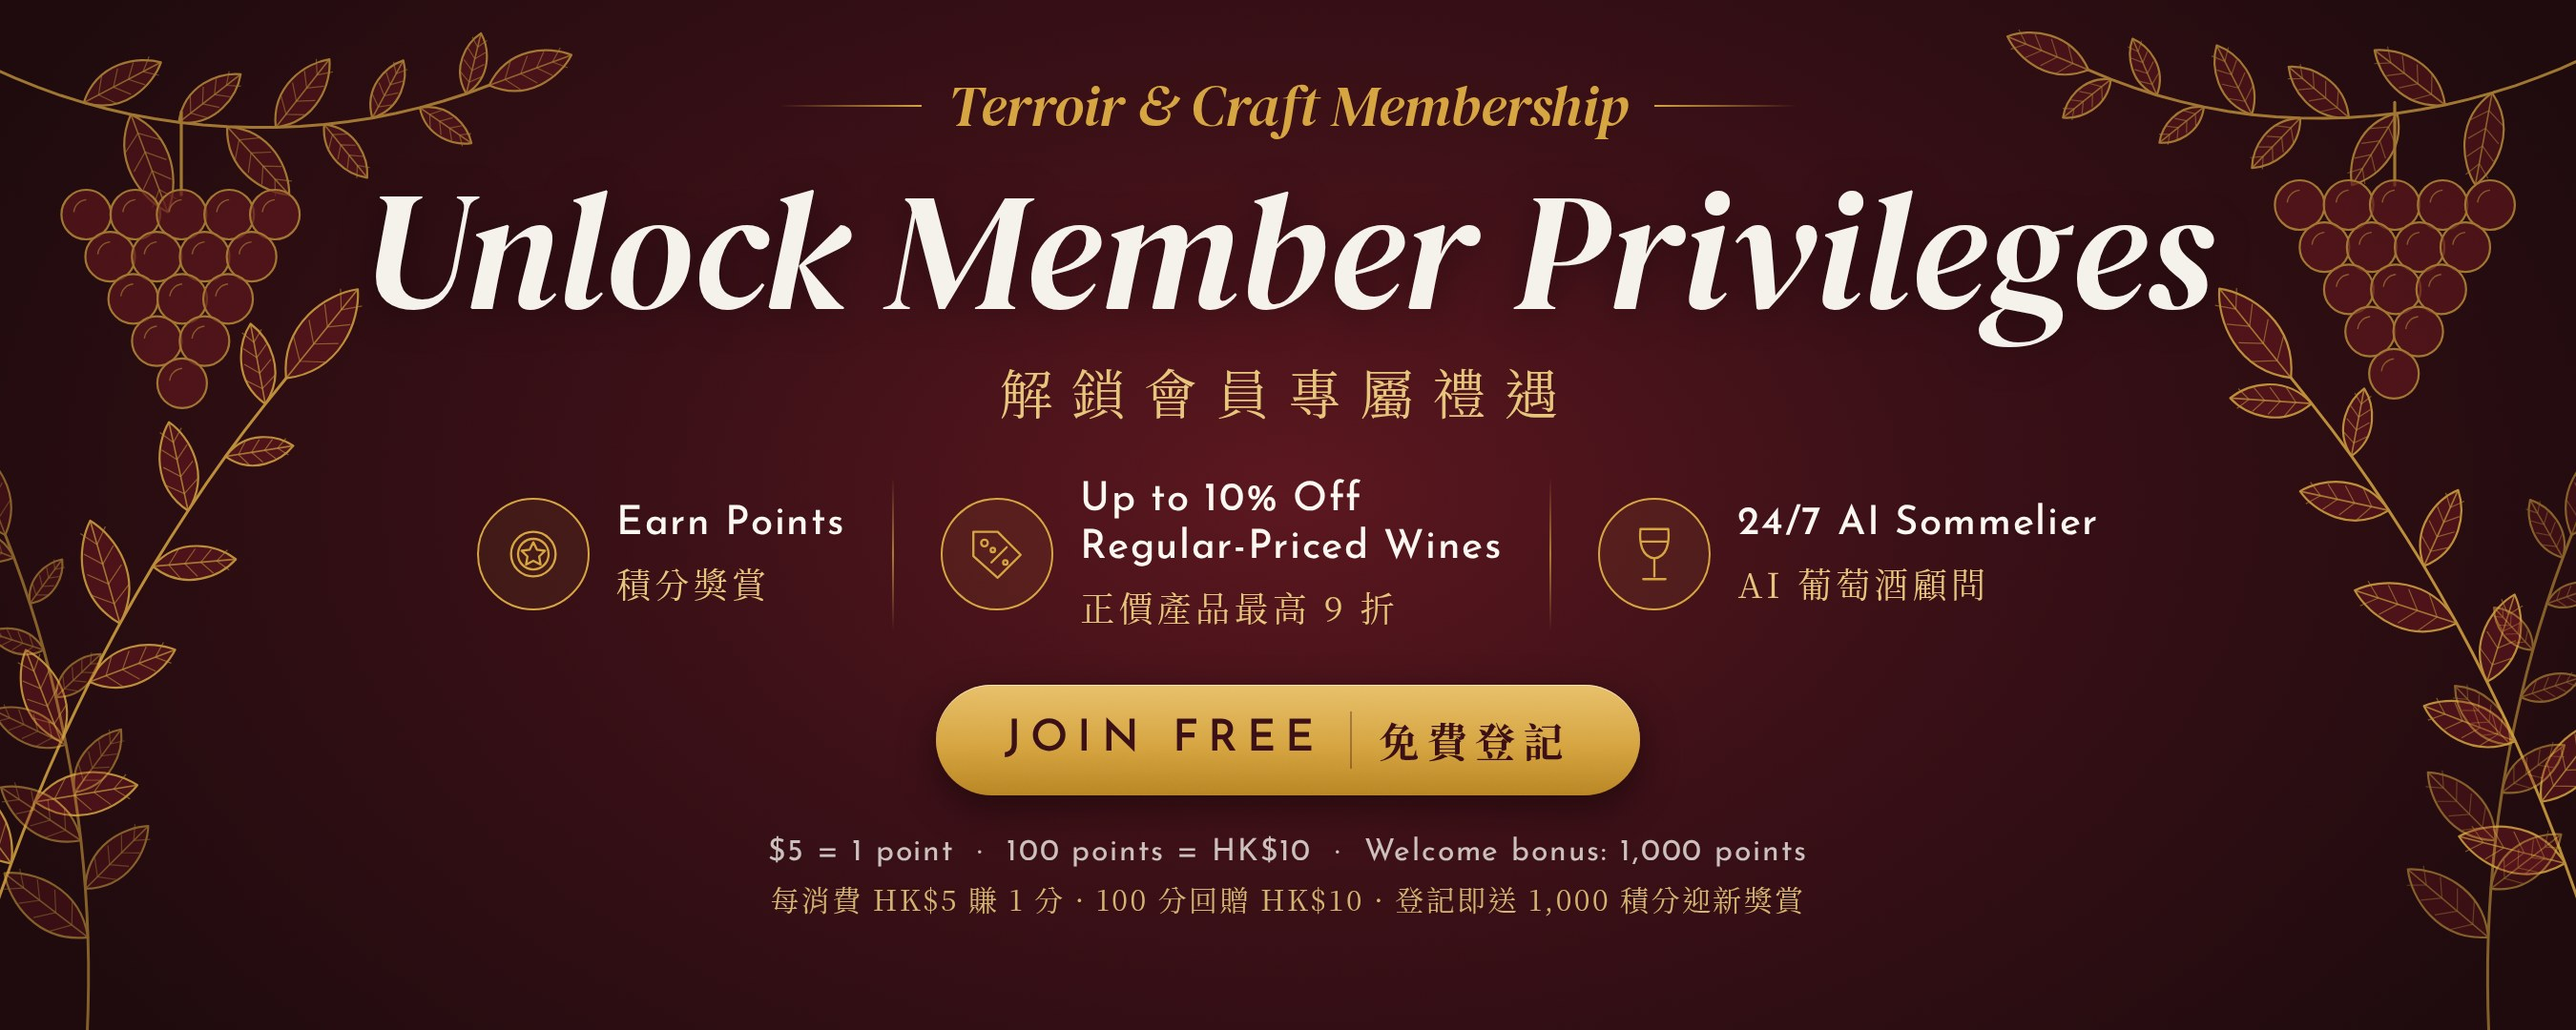
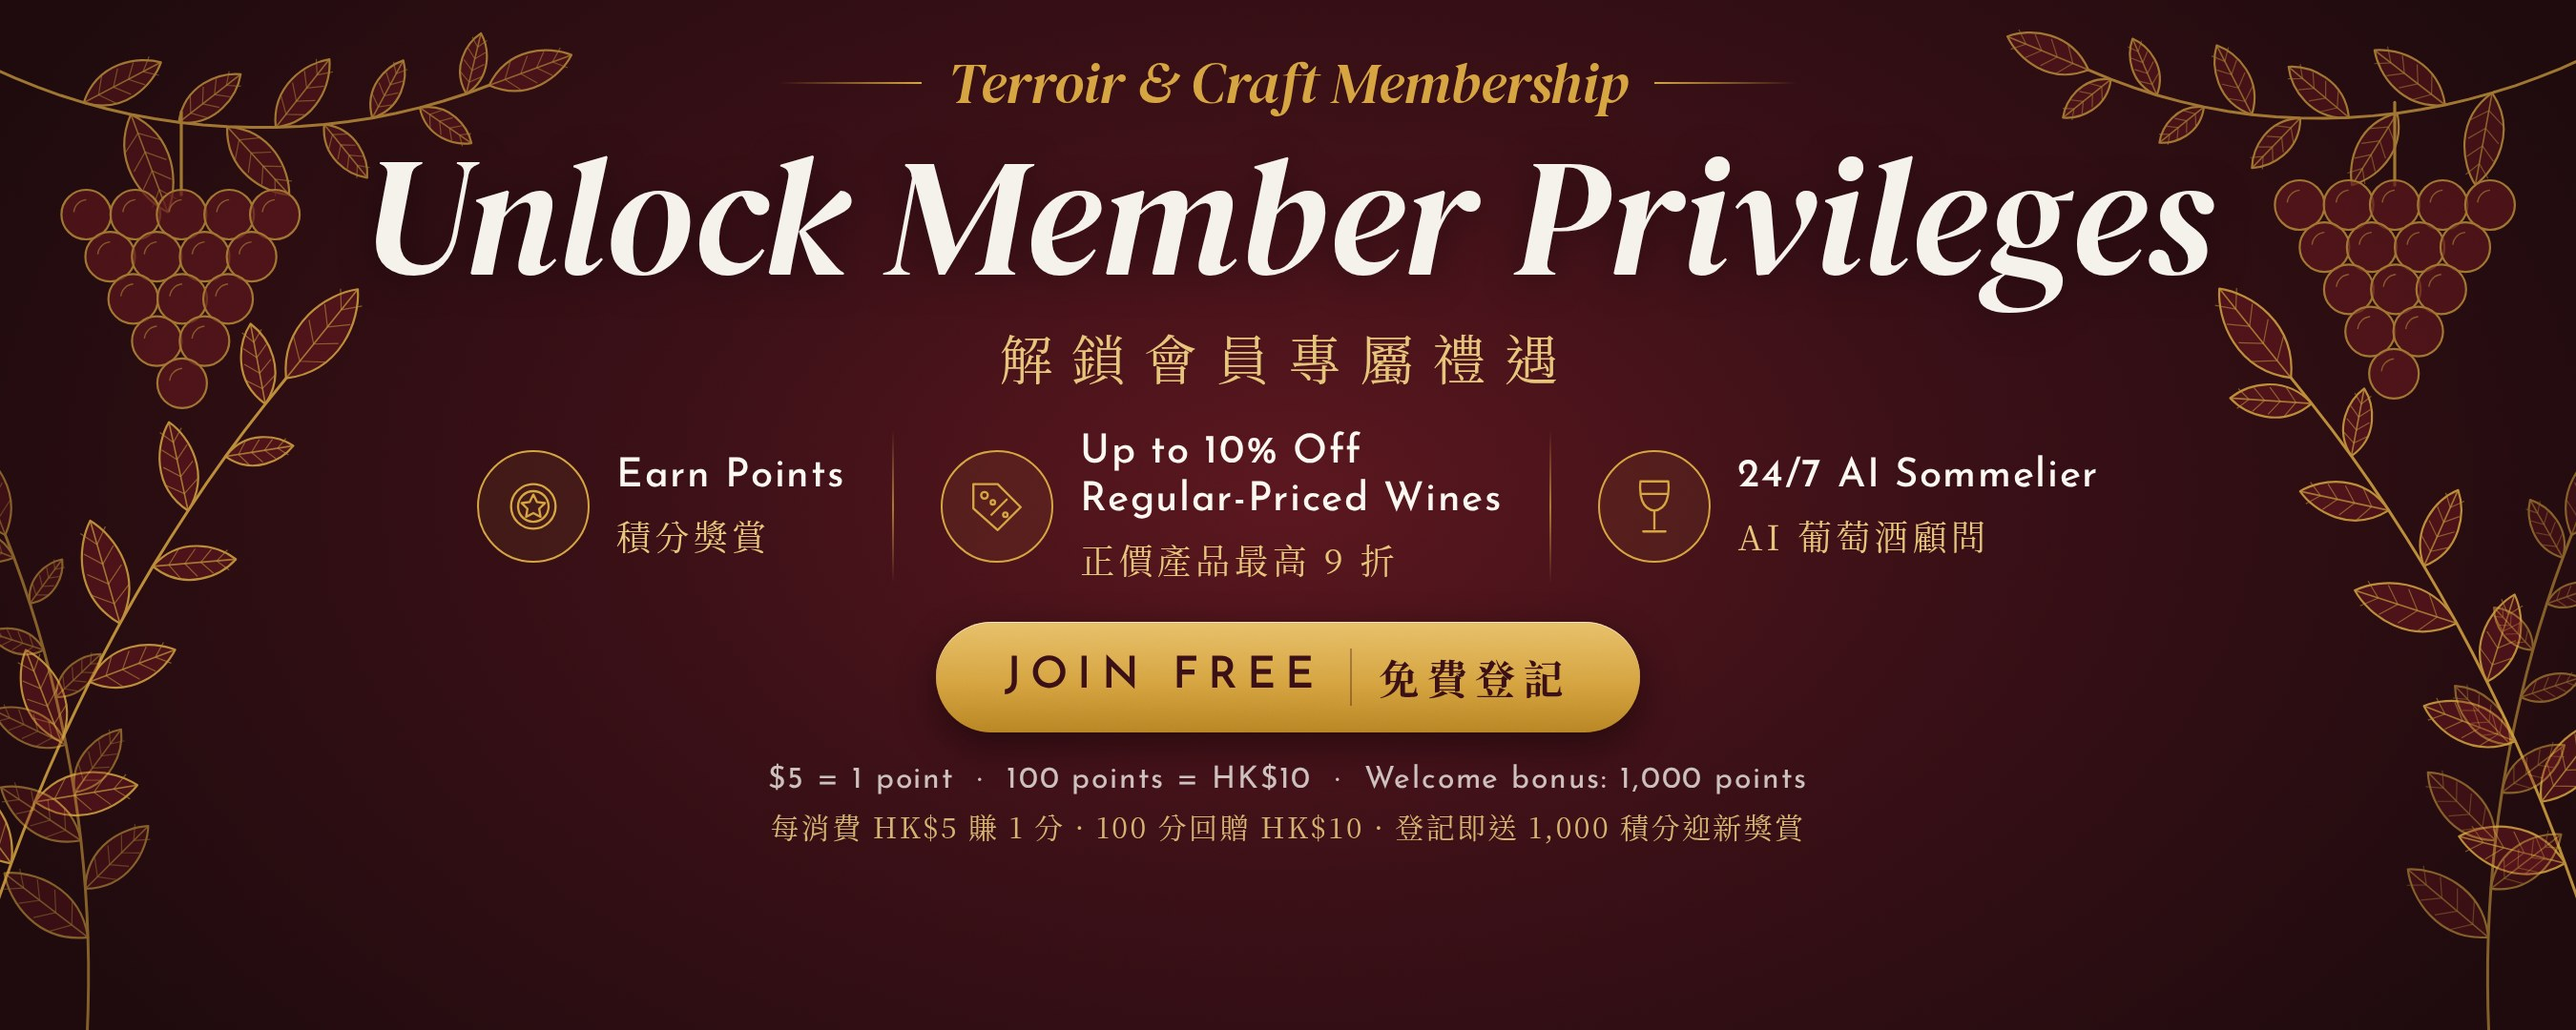
Member hero: lift content clear of bottom fade; cache-bust v=3

diff --git a/client/src/pages/HomePage.tsx b/client/src/pages/HomePage.tsx
@@ -18,8 +18,8 @@ import { useState, useEffect, useCallback, useRef } from "react";
 const HERO_SLIDES = [
   {
     id: "member",
-    bg: `${API_BASE}/member-hero-desktop.jpg?v=2`,
-    bgMobile: `${API_BASE}/member-hero-mobile.jpg?v=2`,
+    bg: `${API_BASE}/member-hero-desktop.jpg?v=3`,
+    bgMobile: `${API_BASE}/member-hero-mobile.jpg?v=3`,
     overlay: "rgba(0,0,0,0)",
     eyebrow: "",
     heading: "",
